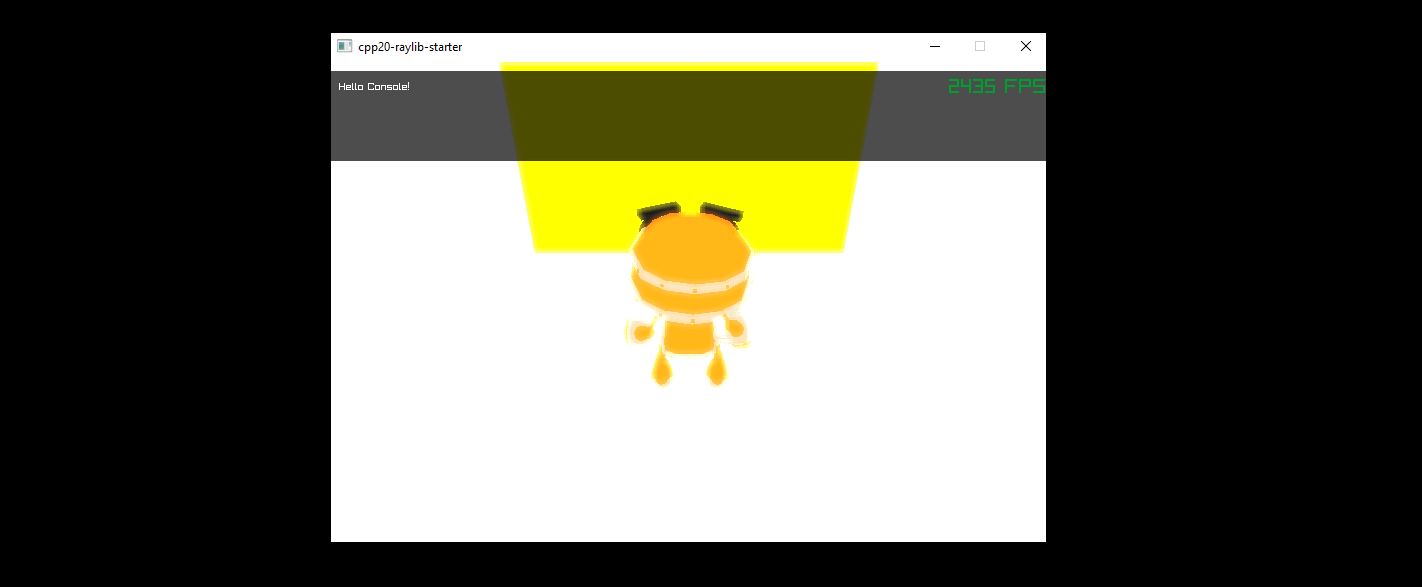
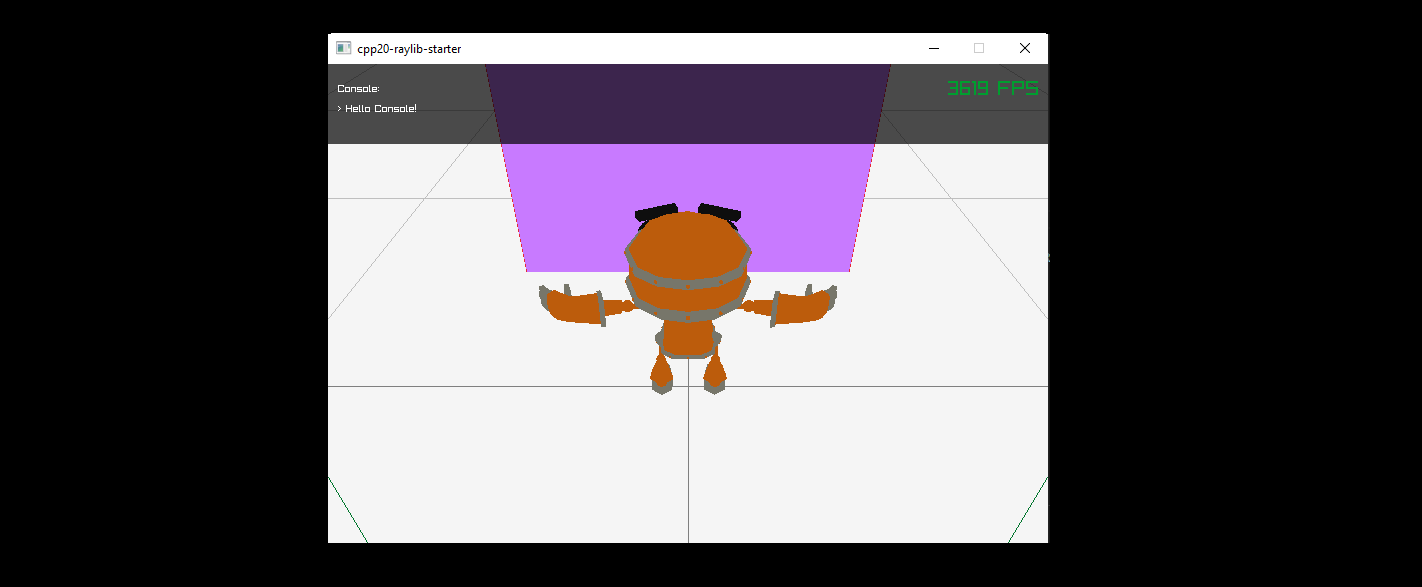
fix: 🐛 console key

Changed region(s): [[0.2166, 0.0613, 0.7426, 0.6746], [0.7117, 0.644, 0.7426, 0.6746], [0.7117, 0.3373, 0.7426, 0.368]]

diff --git a/platform/core/src/core.c b/platform/core/src/core.c
@@ -18,10 +18,6 @@ const char consoleOut[999];
 // 	strcpy(consoleOut, str);
 // }
 
-void changeStage(int* stage_p, int newValue){
-    *stage_p = newValue;
-}
-
 //------------------------------------------------------------------------------------
 // Program main entry point
 //------------------------------------------------------------------------------------
@@ -60,12 +56,15 @@ int main(AppProperties props)
 	SetTargetFPS(props.fps_limit);
 	bool showFPS = props.fps_counter_show;
 	int showConsole = 0;
+	int animationEnable = 1;
 
 	Shader postproShader = (props.postpro_bloom_enable == true) ? shaRes.shaders[FX_BLOOM] : shaRes.shaders[FX_DEFAULT];
 	Model model = lvlkRes.models[CHARACTER];
 	// Texture2D texture = res.textures[CHARACTER];
 
 	//--------------------------------------------------------------------------------------
+
+	InitInputEvent();
 
 	// Main game loop
 	while (!WindowShouldClose()) // Detect window close button or ESC key
@@ -77,8 +76,9 @@ int main(AppProperties props)
 		// Input
 		float char_speed = 0.05f; // TODO: tickCount
 
-		InputOut inout = CheckInputEvent((InputConfig){
+		InputOut inout = ExecuteInputEvent((InputConfig){
 			playerPosition,
+			showConsole,
 			char_speed});
 		playerPosition.x = inout.playerPosition.x;
 		playerPosition.y = inout.playerPosition.y;
@@ -97,9 +97,12 @@ int main(AppProperties props)
 			0.0f + playerPosition.z}; // Camera looking at point
 
 		// Animation
-		ModelAnimation anim = modelAnimations[animIndex];
-		animCurrentFrame = (animCurrentFrame + 1) % anim.frameCount; // TODO: tickCount
-		UpdateModelAnimation(model, anim, animCurrentFrame);
+		if (animationEnable == 1)
+		{
+			ModelAnimation anim = modelAnimations[animIndex];
+			animCurrentFrame = (animCurrentFrame + 1) % anim.frameCount; // TODO: tickCount
+			UpdateModelAnimation(model, anim, animCurrentFrame);
+		}
 
 		//----------------------------------------------------------------------------------
 

diff --git a/platform/core/src/input.c b/platform/core/src/input.c
@@ -7,6 +7,7 @@ typedef struct InputConfig InputConfig;
 struct InputConfig
 {
     Vector3 playerPosition;
+    int showConsole;
     float char_speed;
 };
 
@@ -18,19 +19,38 @@ struct InputOut
     int animIndex;
 };
 
-InputOut CheckInputEvent(InputConfig cfg)
+typedef struct InputEventState InputEventState;
+struct InputEventState
+{
+    int KEY_F1_press;
+};
+
+InputEventState state = {0};
+
+InputOut InitInputEvent()
+{
+    state.KEY_F1_press = 0;
+}
+
+InputOut ExecuteInputEvent(InputConfig cfg)
 {
     InputOut out;
-    out.playerPosition.x = cfg.playerPosition.x;
-    out.playerPosition.y = cfg.playerPosition.y;
-    out.playerPosition.z = cfg.playerPosition.z;
+    out.showConsole = cfg.showConsole;
     out.animIndex = ANIM_IDLE;
-    out.showConsole = 0;
+    out.playerPosition = (Vector3){
+        cfg.playerPosition.x,
+        cfg.playerPosition.y,
+        cfg.playerPosition.z};
 
     // Common
-    if (IsKeyDown(KEY_F1))
+    if (IsKeyDown(KEY_F1) && state.KEY_F1_press == 0)
     {
-        out.showConsole = 1;
+        out.showConsole = !out.showConsole;
+        state.KEY_F1_press = 1;
+    }
+    else if (IsKeyUp(KEY_F1))
+    {
+        state.KEY_F1_press = 0;
     }
 
     // Level

diff --git a/platform/core/src/console.c b/platform/core/src/console.c
@@ -4,18 +4,29 @@
 typedef struct ConsoleConfig ConsoleConfig;
 struct ConsoleConfig
 {
-    int* showConsole;
+    int *showConsole;
     bool showFPS;
     int screen_width;
     char consoleOut[999];
 };
 
+int LINE_HEIGHT = 20;
+int LINE_1 = 0;
+int LINE_2 = 1;
+int LINES_COUNT = 4;
+
 void DrawConsole(ConsoleConfig cfg)
 {
     if (cfg.showConsole == 1)
     {
-        DrawRectangle(0, 9, cfg.screen_width, 30 * 3, Fade(BLACK, 0.7f));
-        DrawText(cfg.consoleOut, 10, 20, 10, WHITE);
+        // Init
+        const char line1[999] = "Console:";
+        const char line2[999];
+        snprintf(line2, sizeof(line2), "> %s", cfg.consoleOut);
+        // Draw
+        DrawRectangle(0, 0, cfg.screen_width, LINE_HEIGHT * LINES_COUNT, Fade(BLACK, 0.7f));
+        DrawText(line1, 10, 20 + LINE_HEIGHT * LINE_1, 10, WHITE);
+        DrawText(line2, 10, 20 + LINE_HEIGHT * LINE_2, 10, WHITE);
     }
     if (cfg.showFPS == true)
     {

diff --git a/standalone/desktop_win64/src/main.cpp b/standalone/desktop_win64/src/main.cpp
@@ -35,10 +35,10 @@ AppProperties initConfig()
     appProperties.glsl_version = GLSL_VERSION;
     appProperties.screen_width = getScreen(SD).width;
     appProperties.screen_height = getScreen(SD).height;
-    appProperties.fps_limit = 60;
+    appProperties.fps_limit = 0;
     appProperties.fps_counter_show = true;
     appProperties.postpro_msaa_enable = true;
-    appProperties.postpro_bloom_enable = true;
+    appProperties.postpro_bloom_enable = false;
     return appProperties;
 }
 

diff --git a/QUESTIONS.md b/QUESTIONS.md
@@ -45,3 +45,20 @@ vec.x = 0.0f;
 vec.y = 1.0f;
 vec.z = -1.0f;
 ```
+
+## Structure declaration ?
+
+```c
+typedef struct MyObject MyObject;
+struct MyObject
+{
+    int number;
+};
+```
+
+```c
+typedef struct MyObject
+{
+    int number;
+} MyObject;
+```
